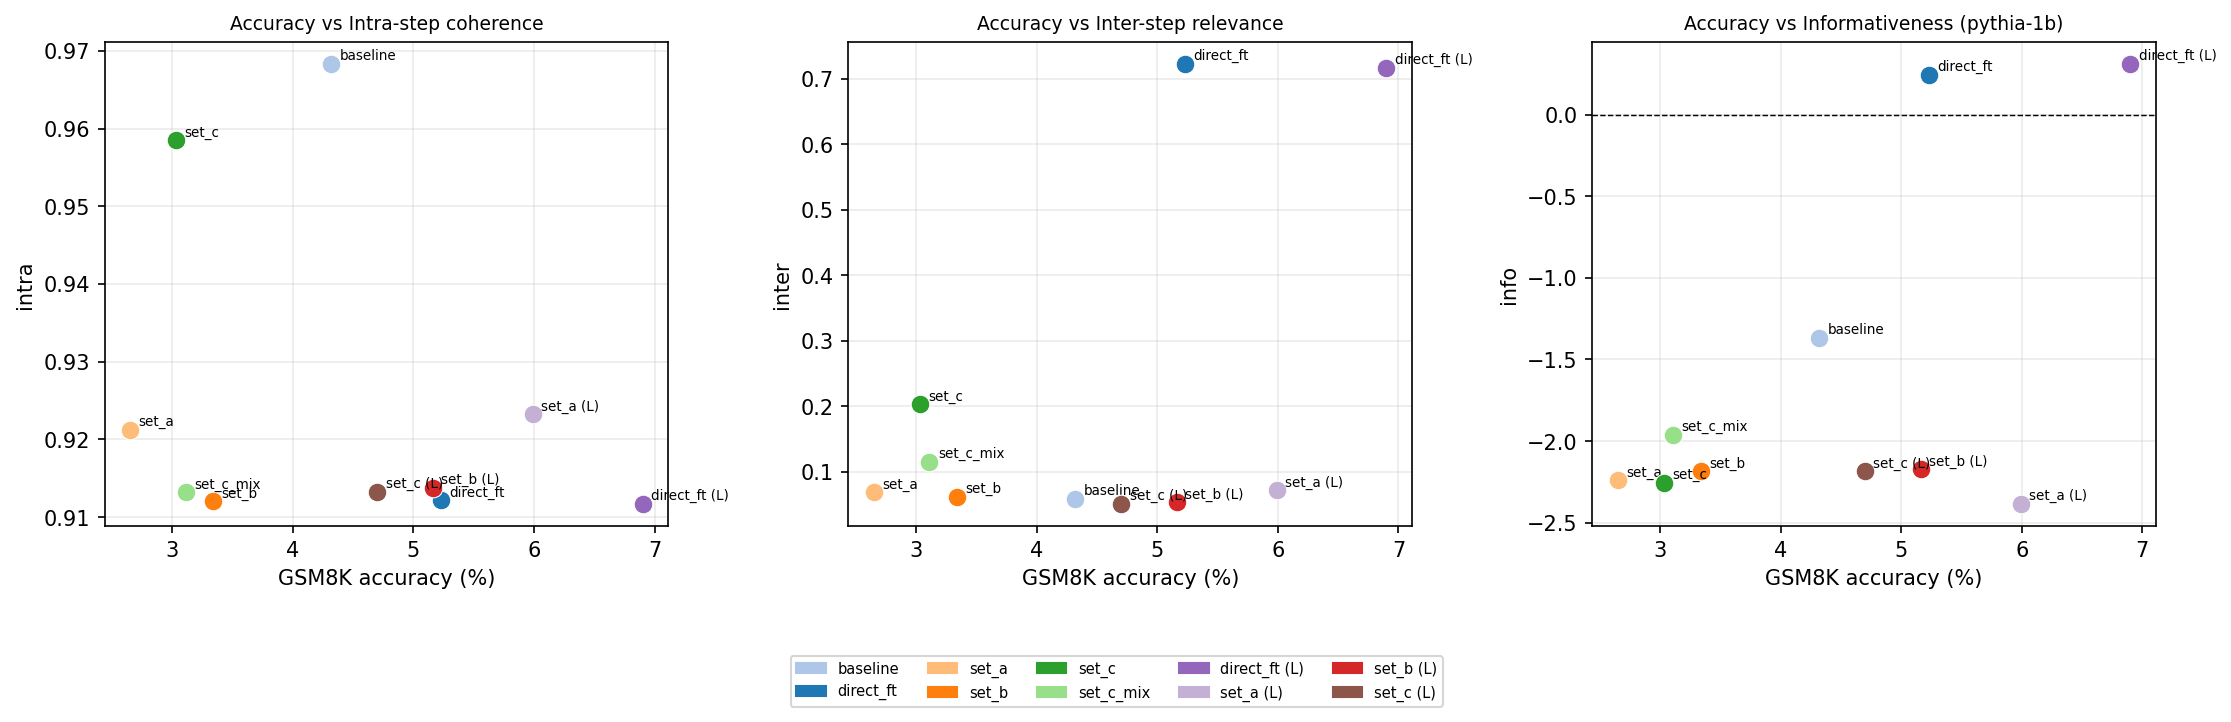
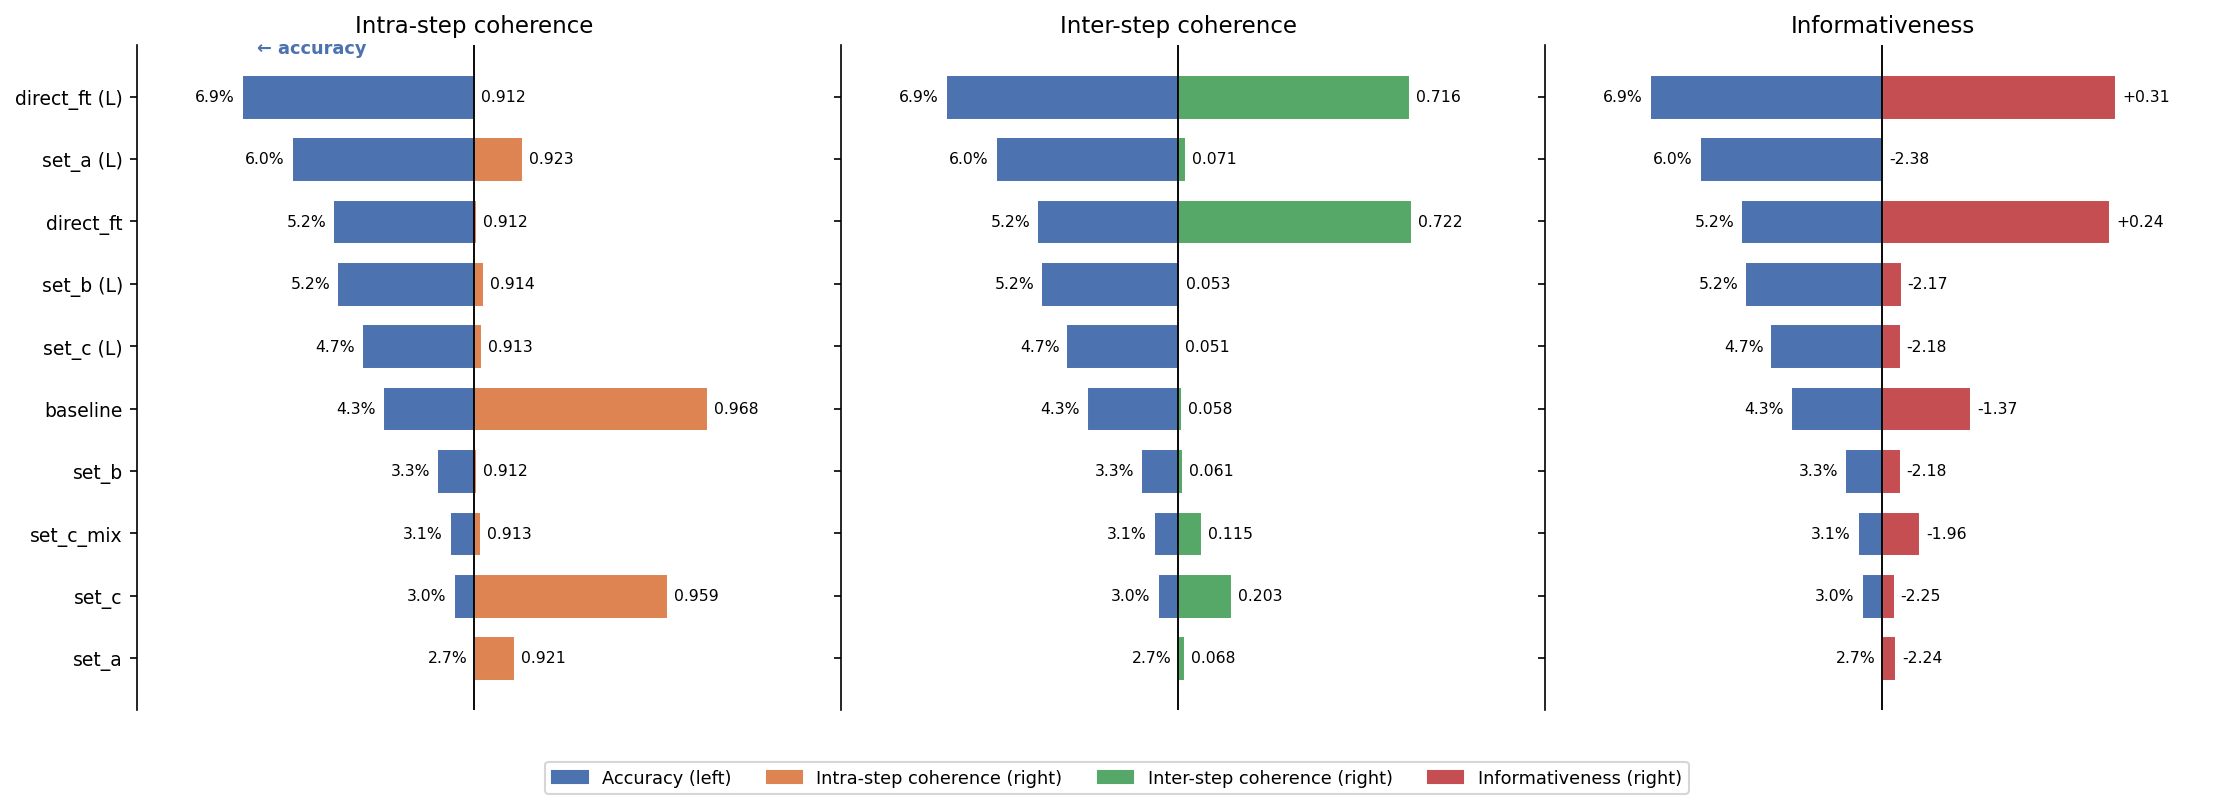
Finalize paper figures and evaluation scripts

diff --git a/scripts/make_receval_paired_bars.py b/scripts/make_receval_paired_bars.py
@@ -1,0 +1,120 @@
+"""Back-to-back paired bars: accuracy vs each ReCEval metric.
+
+Reads outputs/eval_results/{accuracy.csv, receval_summary.csv} and writes
+outputs/plots/accuracy_vs_receval.png.
+
+Three panels share the same condition rows (sorted by accuracy, best on top).
+In each panel the accuracy bar grows LEFT and the ReCEval metric grows RIGHT.
+Bar lengths are min-max normalised per column so the two sides are visually
+comparable; the real value is printed on every bar. A condition with a long
+left bar but a short right bar (or vice versa) = accuracy and reasoning quality
+disagree (the H3 point in the report).
+
+Standalone mirror of the notebook cell so the figure can be regenerated
+without re-running the whole notebook.
+"""
+from __future__ import annotations
+
+from pathlib import Path
+
+import matplotlib
+
+matplotlib.use("Agg")
+import matplotlib.pyplot as plt
+import matplotlib.patches as mpatches
+import pandas as pd
+
+REPO_ROOT = Path(__file__).resolve().parents[1]
+EVAL = REPO_ROOT / "outputs" / "eval_results"
+PLOTS = REPO_ROOT / "outputs" / "plots"
+
+ALL_ORDER = [
+    "baseline", "student_direct_ft", "student_set_a", "student_set_b",
+    "student_set_c", "student_set_c_mix", "student_direct_ft_large",
+    "student_set_a_large", "student_set_b_large", "student_set_c_large",
+]
+SHORT = {
+    "baseline": "baseline", "student_direct_ft": "direct_ft",
+    "student_set_a": "set_a", "student_set_b": "set_b",
+    "student_set_c": "set_c", "student_set_c_mix": "set_c_mix",
+    "student_direct_ft_large": "direct_ft (L)", "student_set_a_large": "set_a (L)",
+    "student_set_b_large": "set_b (L)", "student_set_c_large": "set_c (L)",
+}
+
+ACC_COLOR = "#4c72b0"          # accuracy (left side, every panel)
+REC_COLORS = {                  # one colour per ReCEval metric (right side)
+    "intra_mean": "#dd8452",
+    "inter_mean": "#55a868",
+    "info_mean": "#c44e52",
+}
+PANELS = [
+    ("intra_mean", "Intra-step coherence", "{:.3f}"),
+    ("inter_mean", "Inter-step coherence", "{:.3f}"),
+    ("info_mean", "Informativeness", "{:+.2f}"),
+]
+
+
+def _norm(s: pd.Series) -> pd.Series:
+    lo, hi = s.min(), s.max()
+    if hi == lo:
+        return s * 0 + 0.5
+    return (s - lo) / (hi - lo)
+
+
+def main() -> None:
+    acc = pd.read_csv(EVAL / "accuracy.csv")
+    acc["accuracy_pct"] = acc["accuracy"] * 100
+    rec = pd.read_csv(EVAL / "receval_summary.csv")
+
+    df = acc[["condition", "accuracy_pct"]].merge(
+        rec[["condition", "intra_mean", "inter_mean", "info_mean"]], on="condition"
+    )
+    df = df[df["condition"].isin(ALL_ORDER)].copy()
+    # best accuracy on top
+    df = df.sort_values("accuracy_pct", ascending=True).reset_index(drop=True)
+    df["label"] = df["condition"].map(SHORT)
+    df["acc_norm"] = _norm(df["accuracy_pct"])
+
+    y = range(len(df))
+    fig, axes = plt.subplots(1, 3, figsize=(15, 5.2), sharey=True)
+
+    for ax, (col, title, fmt) in zip(axes, PANELS):
+        df[f"{col}_norm"] = _norm(df[col])
+        # accuracy bars grow LEFT (negative), ReCEval grows RIGHT (positive)
+        ax.barh(y, -df["acc_norm"], color=ACC_COLOR, height=0.7,
+                edgecolor="white", linewidth=0.5)
+        ax.barh(y, df[f"{col}_norm"], color=REC_COLORS[col], height=0.7,
+                edgecolor="white", linewidth=0.5)
+
+        for yi, (_, r) in zip(y, df.iterrows()):
+            ax.text(-r["acc_norm"] - 0.03, yi, f"{r['accuracy_pct']:.1f}%",
+                    ha="right", va="center", fontsize=7.5)
+            ax.text(r[f"{col}_norm"] + 0.03, yi, fmt.format(r[col]),
+                    ha="left", va="center", fontsize=7.5)
+
+        ax.axvline(0, color="black", linewidth=0.9)
+        ax.set_xlim(-1.45, 1.45)
+        ax.set_xticks([])
+        ax.set_title(title, fontsize=11)
+        ax.set_yticks(list(y))
+        ax.set_yticklabels(df["label"], fontsize=9)
+        for spine in ("top", "right", "bottom"):
+            ax.spines[spine].set_visible(False)
+
+    axes[0].annotate("← accuracy", xy=(-0.7, len(df) - 0.3),
+                     ha="center", fontsize=8.5, color=ACC_COLOR, fontweight="bold")
+    fig.legend(
+        handles=[mpatches.Patch(color=ACC_COLOR, label="Accuracy (left)")]
+        + [mpatches.Patch(color=REC_COLORS[c], label=f"{t} (right)")
+           for c, t, _ in PANELS],
+        loc="lower center", ncol=4, fontsize=8.5, bbox_to_anchor=(0.5, -0.04),
+    )
+    fig.tight_layout(rect=[0, 0.05, 1, 1])
+    PLOTS.mkdir(parents=True, exist_ok=True)
+    out = PLOTS / "accuracy_vs_receval.png"
+    fig.savefig(out, dpi=150, bbox_inches="tight")
+    print(f"wrote {out}")
+
+
+if __name__ == "__main__":
+    main()

diff --git a/scripts/plot_training_set_sizes.py b/scripts/plot_training_set_sizes.py
@@ -1,0 +1,80 @@
+"""Side-by-side training-set-size bars for GSM8K and SVAMP.
+
+Reads outputs/runs/02_filter.json and 02_filter_svamp.json and writes
+outputs/plots/training_set_sizes.png.
+"""
+from pathlib import Path
+import json
+import matplotlib.pyplot as plt
+
+ROOT = Path(__file__).resolve().parents[1]
+RUNS = ROOT / "outputs" / "runs"
+PLOTS = ROOT / "outputs" / "plots"
+PLOTS.mkdir(parents=True, exist_ok=True)
+
+gsm = json.loads((RUNS / "02_filter.json").read_text())["metrics"]
+svamp = json.loads((RUNS / "02_filter_svamp.json").read_text())["metrics"]
+
+LABELS = ["Direct FT", "Set A", "Set B", "Set C", "Set C+Mix"]
+COLORS = ["#1f77b4", "#ffbb78", "#ff7f0e", "#2ca02c", "#98df8a"]
+
+gsm_sizes = [
+    gsm["direct_ft_size"],
+    gsm["set_a_size"],
+    gsm["set_b_size"],
+    gsm["set_c_size"],
+    gsm["set_c_size"] * 2,   # Set C + same-sized Direct-FT sample = 6,778 (full set, pre val split)
+]
+svamp_sizes = [
+    svamp["direct_ft_size"],
+    svamp["set_a_size"],
+    svamp["set_b_size"],
+    svamp["set_c_size"],
+    None,
+]
+
+fig, (ax_g, ax_s) = plt.subplots(1, 2, figsize=(12, 3.4))
+
+bars_g = ax_g.barh(LABELS, gsm_sizes, color=COLORS)
+for bar, label, v in zip(bars_g, LABELS, gsm_sizes):
+    txt = f"{v:,}"
+    if label == "Set C":
+        txt += f"  ({gsm['n_calculator_edited']:,} edits)"
+    ax_g.text(bar.get_width() + 80, bar.get_y() + bar.get_height() / 2,
+              txt, va="center", fontsize=9)
+ax_g.set_xlabel("Training examples")
+ax_g.set_title("GSM8K")
+ax_g.set_xlim(0, max(gsm_sizes) * 1.25)
+ax_g.grid(axis="x", alpha=0.3)
+ax_g.invert_yaxis()
+
+svamp_plot = [v if v is not None else 0 for v in svamp_sizes]
+bars_s = ax_s.barh(LABELS, svamp_plot, color=COLORS)
+for bar, label, v in zip(bars_s, LABELS, svamp_sizes):
+    if v is None:
+        ax_s.text(20, bar.get_y() + bar.get_height() / 2,
+                  "(no mix variant)", va="center", fontsize=9,
+                  style="italic", color="gray")
+    else:
+        txt = f"{v:,}"
+        if label == "Set C":
+            txt += f"  ({svamp['n_calculator_edited']:,} edits)"
+        ax_s.text(bar.get_width() + 8, bar.get_y() + bar.get_height() / 2,
+                  txt, va="center", fontsize=9)
+ax_s.set_xlabel("Training examples")
+ax_s.set_title("SVAMP")
+ax_s.set_xlim(0, max(v for v in svamp_sizes if v is not None) * 1.35)
+ax_s.grid(axis="x", alpha=0.3)
+ax_s.invert_yaxis()
+
+fig.suptitle("Training set sizes by condition", fontsize=12)
+fig.tight_layout()
+out = PLOTS / "training_set_sizes.png"
+fig.savefig(out, dpi=150, bbox_inches="tight")
+print(f"wrote {out}")
+print(f"GSM8K  Set B keep rate: {gsm['set_b_keep_rate']:.1%}  | "
+      f"calc edits: {gsm['n_calculator_edited']:,}/{gsm['set_b_size']:,} "
+      f"({gsm['n_calculator_edited']/gsm['set_b_size']:.1%})")
+print(f"SVAMP  Set B keep rate: {svamp['set_b_keep_rate']:.1%}  | "
+      f"calc edits: {svamp['n_calculator_edited']:,}/{svamp['set_b_size']:,} "
+      f"({svamp['n_calculator_edited']/svamp['set_b_size']:.1%})")

diff --git a/src/eval/receval/informativeness.py b/src/eval/receval/informativeness.py
@@ -6,9 +6,8 @@ For each step i, compute:
 where log p is the mean per-token log-probability of the gold answer tokens
 under a frozen causal LM given the preceding context.
 
-Default model: EleutherAI/pythia-410m (v3). Pass model_name="gpt2" to
-reproduce v2 scores.
-
+Default model: EleutherAI/pythia-1b. All released ReCEval scores in
+outputs/eval_results/ were computed with this model 
 Chain score = min info_i over all steps. Negative values are expected when
 adding a step makes the gold answer less predictable — this is the correct
 behaviour, not a bug.
@@ -18,7 +17,7 @@ from __future__ import annotations
 import torch
 from transformers import AutoModelForCausalLM, AutoTokenizer
 
-_DEFAULT_MODEL = "distilgpt2"
+_DEFAULT_MODEL = "EleutherAI/pythia-1b"
 _state: dict = {}
 
 

diff --git a/doc/RESEARCH.md b/doc/RESEARCH.md
@@ -81,7 +81,7 @@ A null result for H2 (filter helps both equally) is also reportable and informat
 - Free-tier Kaggle notebooks (NVIDIA T4, 16 GB VRAM, ~12-hour sessions)
 - HuggingFace Transformers, Datasets, Accelerate
 - DeBERTa-v3-small NLI (`cross-encoder/nli-deberta-v3-small`) for ReCEval correctness components
-- DistilGPT-2 as the frozen LM for the log-likelihood informativeness variant
+- EleutherAI/pythia-1b as the frozen LM for the log-likelihood informativeness variant
 - spaCy for sentence segmentation
 - Checkpoints saved to `outputs/checkpoints/`; intermediate epoch checkpoints pruned with `python -m src.utils.cleanup_ckpts`
 